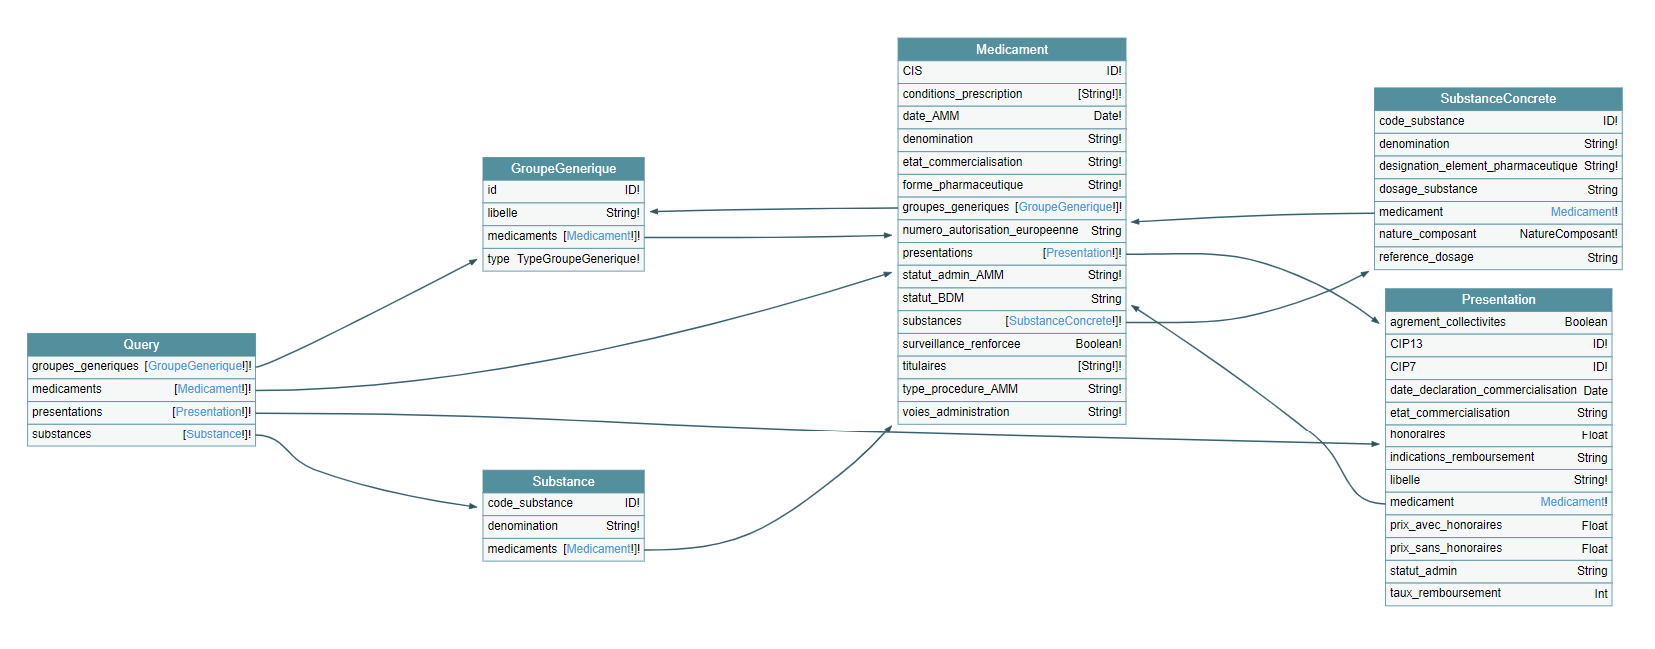
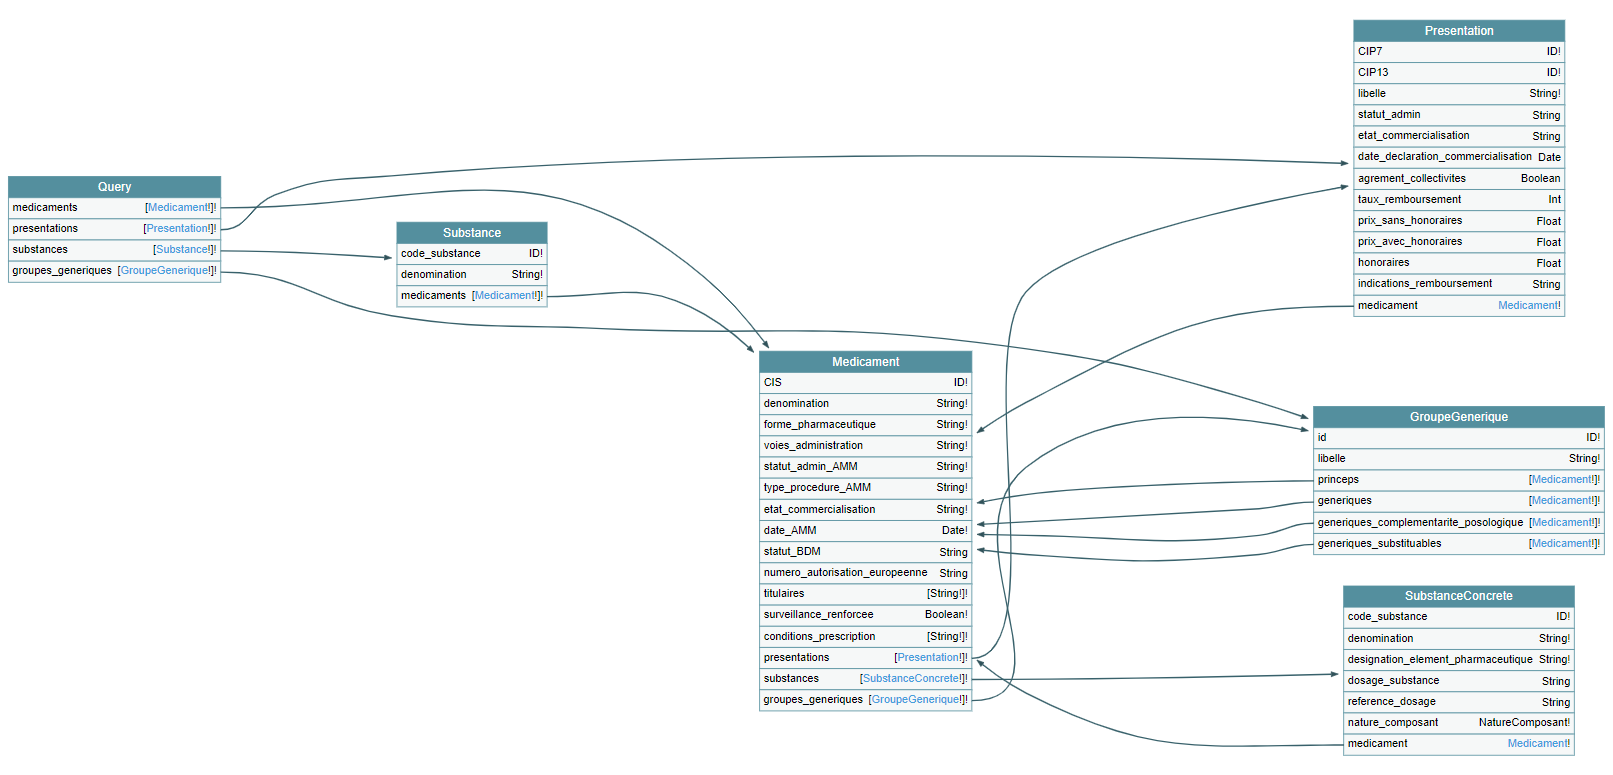
Corrige la structure des groupes génériques
* Les médicaments d'un GroupeGenerique sont séparés selon leur type dans le groupe

diff --git a/src/graph.js b/src/graph.js
@@ -74,15 +74,17 @@ async function buildGraph() {
 
     let groupesGeneriques = await props.groupesGeneriques;
     removeLeadingZerosOfFields(groupesGeneriques, ['CIS']);
-    groupesGeneriques = indexByIds(groupesGeneriques, ['id', 'CIS'], [true, true]);
+    groupesGeneriques = indexByIds(groupesGeneriques, ['id'], [true]);
+    groupesGeneriques['CIS'] = {};
+    const [groupesById, groupesByCIS] = [groupesGeneriques['id'], groupesGeneriques['CIS']];
 
     let medicaments = await props.medicaments;
     removeLeadingZerosOfFields(medicaments, ['CIS']);
     medicaments.forEach(m => {
-        const codeCis = m['CIS'];
-        addGetter(m, 'presentations', () => presentations['CIS'][codeCis] || []);
-        addGetter(m, 'substances', () => substances['CIS'][codeCis] || []);
-        addGetter(m, 'groupes_generiques', () => groupesGeneriques['CIS'][codeCis] || []);
+        const cis = m['CIS'];
+        addGetter(m, 'presentations', () => presentations['CIS'][cis] || []);
+        addGetter(m, 'substances', () => substances['CIS'][cis] || []);
+        addGetter(m, 'groupes_generiques', () => groupesByCIS[cis] || []);
         m['conditions_prescription'] = [];
     });
     medicaments = indexByIds(medicaments, ['CIS'])['CIS'];
@@ -94,8 +96,23 @@ async function buildGraph() {
         addGetter(s, 'medicaments', () => mapToIndex(substances['code_substance'][s['code_substance']], 'CIS', medicaments));
     });
 
-    Object.values(groupesGeneriques['CIS']).flat().forEach(g => {
-        addGetter(g, 'medicaments', () => mapToIndex(groupesGeneriques['id'][g['id']], 'CIS', medicaments));
+    Object.keys(groupesById).forEach(id => {
+        // chaque id correspond à un groupe
+        const all = groupesById[id]
+        const g = { id: id, libelle: all[0].libelle };
+        const meds = [[], [], [], null, []]; // par type
+        all.forEach(o => {
+            const cis = o['CIS'];
+            if (!groupesByCIS.hasOwnProperty(cis)) groupesByCIS[cis] = []; // regroupe tous les groupes génériques associés au médicament dans un même tableau
+            groupesByCIS[cis].push(g);
+            if (medicaments.hasOwnProperty(cis)) {
+                const type = parseInt(o['type'], 10);
+                meds[type].push(medicaments[cis]);
+            }
+        });
+        meds.splice(3, 1);
+        [g.princeps, g.generiques, g.generiques_complementarite_posologique, g.generiques_substituables] = meds;
+        groupesById[id] = g;
     });
 
     Object.values(presentations['CIS']).flat().forEach(p => {
@@ -106,7 +123,7 @@ async function buildGraph() {
         'substances': keepFirstElementOfArrayValues(substances['code_substance']),
         'medicaments': medicaments,
         'presentations': presentations,
-        'groupes_generiques': keepFirstElementOfArrayValues(groupesGeneriques['id']),
+        'groupes_generiques': groupesById,
     };
     console.timeEnd('Graph built');
     return graph;

diff --git a/src/data.js b/src/data.js
@@ -81,15 +81,6 @@ const mappings = {
         'honoraires': formatFloatNumber,
         'date_declaration_commercialisation': v => v ? strToDate(v) : v,
     },
-    [files.groupesGeneriques]: {
-        'type': n => [
-            'princeps',
-            'generique',
-            'generique_par_complementarite_posologique',
-            null,
-            'generique_substituable'
-        ][n],
-    },
 }
 
 function ouiNonToBooleans(value) {

diff --git a/README.md b/README.md
@@ -100,14 +100,13 @@ Réponse :
 }
 ```
 
-Demander un groupe générique à partir de son identifiant, et tous les médicaments qu'ils contient, avec pour chaque médicament leur dénomination et celle de leurs substances :
+Demander un groupe générique à partir de son identifiant, et son ou ses médicament(s) princeps, avec pour chaque médicament leur dénomination et celle de leurs substances :
 
 ```graphql
 {
-  groupes_generiques(ids: ["4"]) {
+  groupes_generiques(ids: ["101"]) {
     libelle
-    type
-    medicaments {
+    princeps {
       denomination
       substances {
         denomination
@@ -124,22 +123,27 @@ Réponse :
   "data": {
     "groupes_generiques": [
       {
-        "libelle": "CIMETIDINE 800 mg - TAGAMET 800 mg, comprimé pelliculé sécable",
-        "type": "princeps",
-        "medicaments": [
+        "libelle": "CAPTOPRIL 50 mg + HYDROCHLOROTHIAZIDE 25 mg - ECAZIDE, comprimé sécable - CAPTEA, comprimé sécable.",
+        "princeps": [
           {
-            "denomination": "CIMETIDINE MYLAN 800 mg, comprimé pelliculé",
+            "denomination": "ECAZIDE, comprimé sécable",
             "substances": [
               {
-                "denomination": "CIMÉTIDINE"
+                "denomination": "HYDROCHLOROTHIAZIDE"
+              },
+              {
+                "denomination": "CAPTOPRIL"
               }
             ]
           },
           {
-            "denomination": "CIMETIDINE MYLAN 400 mg, comprimé pelliculé",
+            "denomination": "CAPTEA, comprimé sécable",
             "substances": [
               {
-                "denomination": "CIMÉTIDINE"
+                "denomination": "HYDROCHLOROTHIAZIDE"
+              },
+              {
+                "denomination": "CAPTOPRIL"
               }
             ]
           }
@@ -433,6 +437,91 @@ Réponse :
             "taux_remboursement": 65,
             "prix_sans_honoraires": 12.32,
             "prix_avec_honoraires": 15.08
+          }
+        ]
+      }
+    ]
+  }
+}
+```
+
+Demander les médicaments princeps et génériques, associés au prix de leurs présentations, du groupe générique "AZANTAC 150 mg cp effervescent" :
+
+```graphql
+{
+  groupes_generiques(
+    libelle: {contains_all: ["azantac 150 mg", "effervescent"]}
+  ) {
+    id
+    libelle
+    princeps {
+      ...champs
+    }
+    generiques {
+      ...champs
+    }
+  }
+}
+
+fragment champs on Medicament {
+  CIS
+  presentations {
+    prix_sans_honoraires
+  }
+}
+```
+
+Réponse :
+
+```json
+{
+  "data": {
+    "groupes_generiques": [
+      {
+        "id": "10",
+        "libelle": "RANITIDINE (CHLORHYDRATE DE) équivalant à RANITIDINE 150 mg - AZANTAC 150 mg, comprimé effervescent - RANIPLEX 150 mg, comprimé effervescent.",
+        "princeps": [
+          {
+            "CIS": "61541821",
+            "presentations": [
+              {
+                "prix_sans_honoraires": 8.88
+              }
+            ]
+          }
+        ],
+        "generiques": [
+          {
+            "CIS": "60002504",
+            "presentations": [
+              {
+                "prix_sans_honoraires": 7.2
+              }
+            ]
+          },
+          {
+            "CIS": "62349845",
+            "presentations": [
+              {
+                "prix_sans_honoraires": 7.2
+              }
+            ]
+          },
+          {
+            "CIS": "61765417",
+            "presentations": [
+              {
+                "prix_sans_honoraires": 7.2
+              }
+            ]
+          },
+          {
+            "CIS": "64940633",
+            "presentations": [
+              {
+                "prix_sans_honoraires": 7.2
+              }
+            ]
           }
         ]
       }
